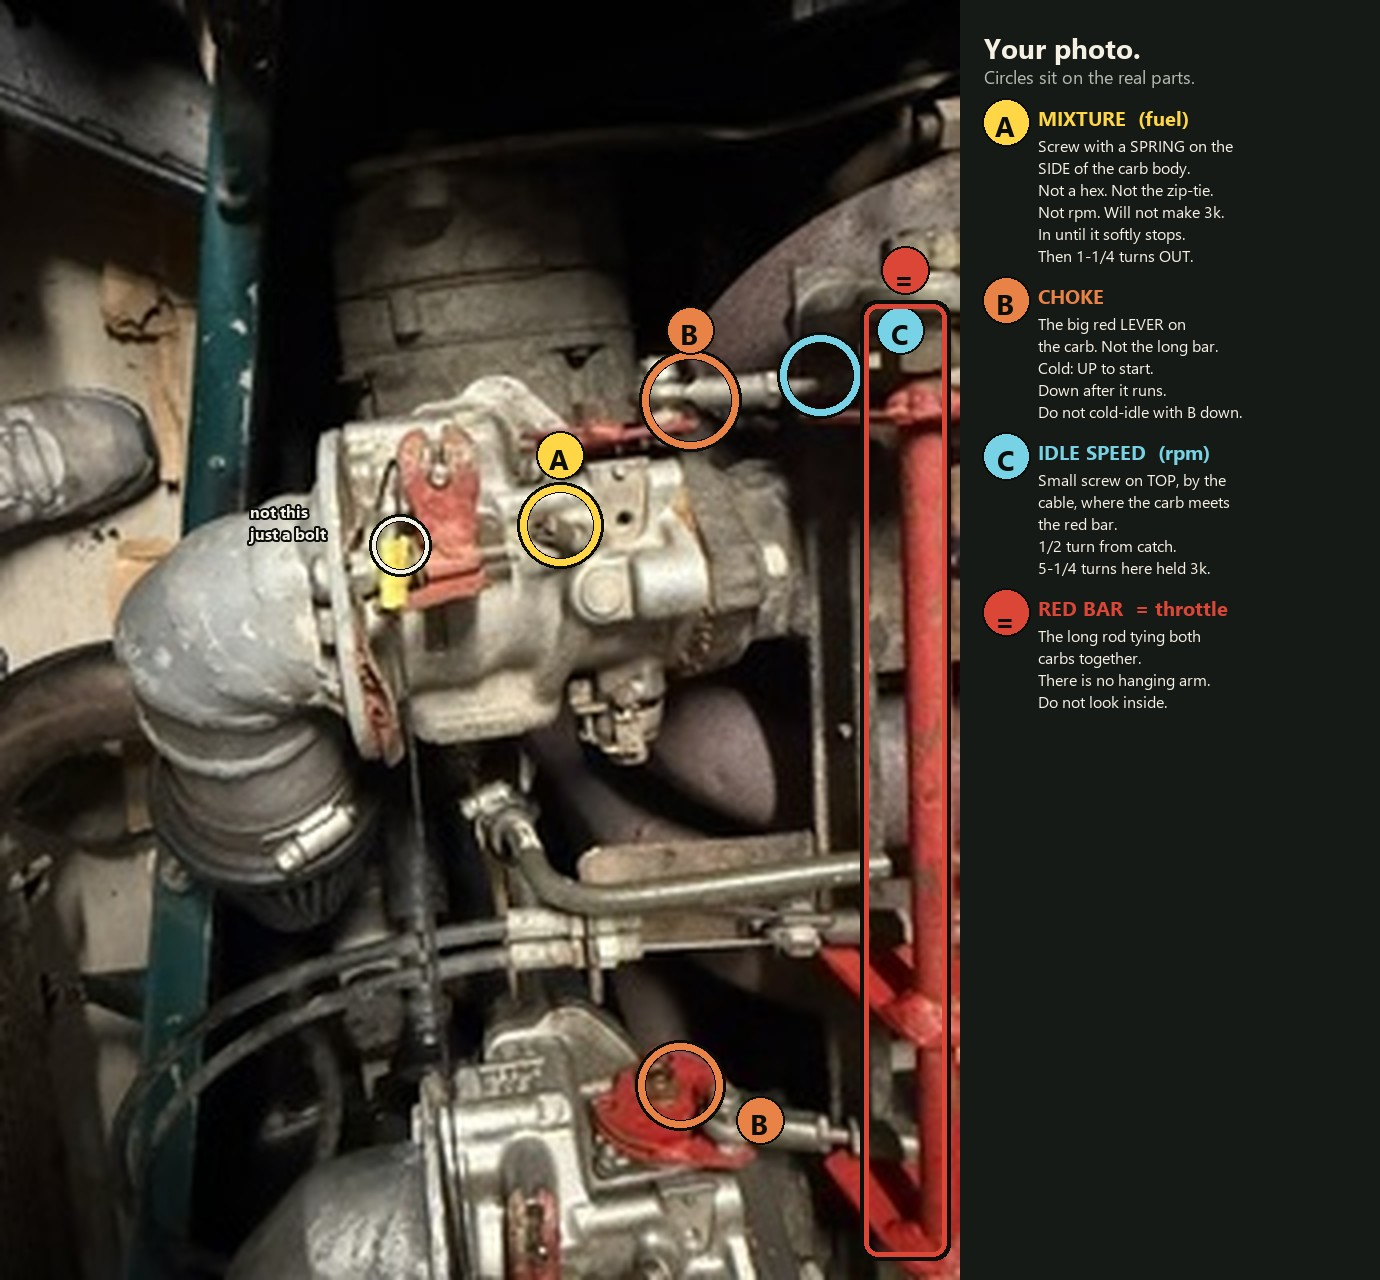
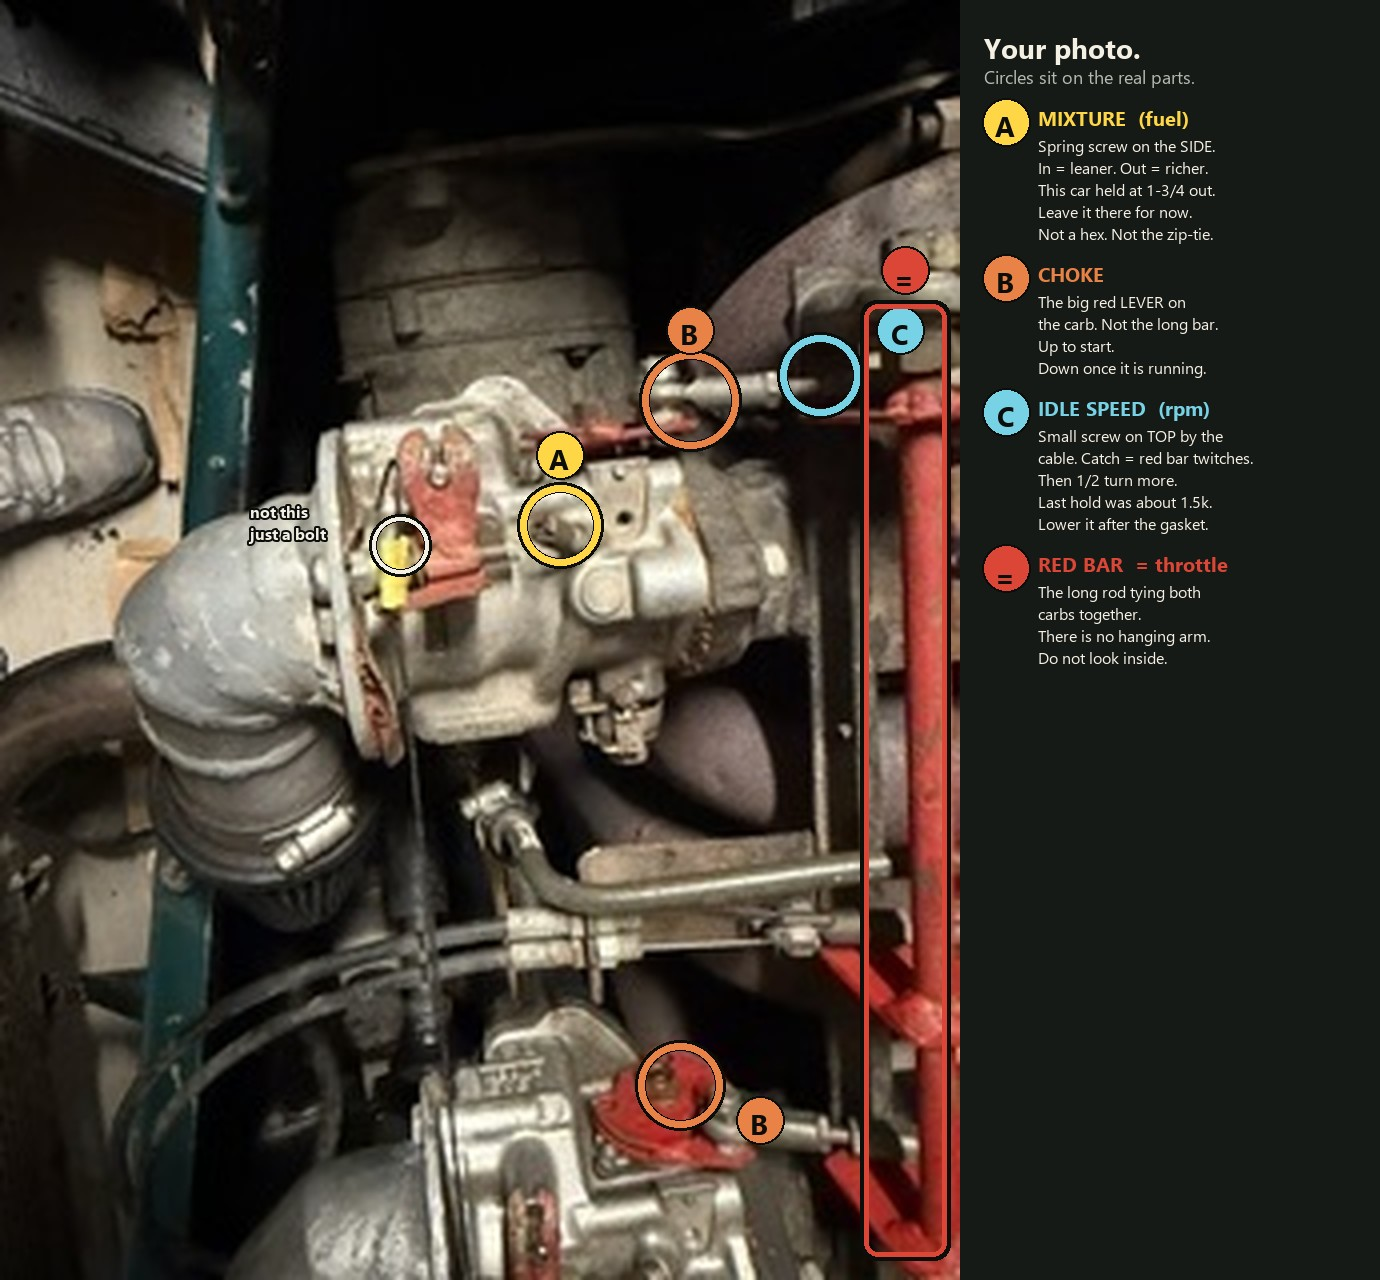
File tonight's idle: 1-3/4 mixture held at 1.5k. Gasket first, then lower speed.

Changed region(s): [[0.7167, 0.0938, 0.9036, 0.5625]]

diff --git a/public/js/data.js b/public/js/data.js
@@ -618,7 +618,8 @@ window.ZO = {
         { k: "OEM", v: "Mercury 27-52145, 27-806452, 27-851040, 27-34041. OMC 913277 / 912981 / 3852693. Volvo Penta 3852693. GLM 32210. Fel-Pro Marine 17900." },
         { k: "GM analog", v: "Marine Engine Depot lists authentic GM 14096154 for the 181 / 3.0L valve cover. https://marineenginedepot.com/gasket-181-30l-valve-cover-authentic-gm" },
         { k: "2010 set", v: "DET59565AS on eBasicPower 82085 is the old 2.5/3.0L set, $30.95. That invoice is not this dedicated gasket." },
-        { k: "Not", v: "Not a head gasket. Marine head-gasket analog 14096660 is not this part." }
+        { k: "Not", v: "Not a head gasket. Marine head-gasket analog 14096660 is not this part." },
+        { k: "Now", v: "Leaking. New gasket due 11 Nov 2026. Do not run the engine until it is on." }
       ],
       notes: "On the 9 Nov 2026 buy list with the fuel filter and thermostat kit. No receipt.",
       evidence: ["IMG_5863", "IMG_5929"]
@@ -691,8 +692,8 @@ window.ZO = {
         { k: "Seat", v: "S&S 11-2465 .160 in inlet seat, already circled on IMG_5949. Fits Super E and G with 11-2195. Page $18.95. Need two. https://www.sscycle.com/shop-by-products/replacement-parts/carburetor-replacement-parts/" },
         { k: "O-ring", v: "Seat/bowl plug o-ring 50-8009 is also circled on IMG_5949. Replace it when the seat comes out." },
         { k: "Float", v: "S&S 11-2187 on the same parts list. Shake both — if it sloshes, replace. Page $26.95 each. S&S sheet: top of float 1/8–3/16 in below the bowl gasket surface with the needle spring compressed." },
-        { k: "Enrichment", v: "Super E/G have no conventional choke. The big red lever is enrichment. Cold: up to start. Down on both after it runs. Do not cold-idle with both down to prove it. If a lever stays up while hot, it stays rich. NAPA 732-1153 choke kit is still on the 2010 ticket with no application — do not assume it is these carbs." },
-        { k: "Tune", v: "Enzo 10 Nov 2026 night: 1-1/4 is MIXTURE only (A, side spring screw). It does not set 3k/6k rpm. Idle SPEED is C, the screw by the cable wheel — 1/2 turn from catch, not 1-1/4. 5-1/4 turns of C started at 3k and held. Later ~2k cold, no choke, no blip, exhaust pop, then it died. Catch = engine off, back C out until the red bar is slack, in until the wheel/bar just moves, then 1/2 turn. Same both. A pop then stall in a few seconds is not warm-up. Cold idle can drop a little after it is actually hot. If it pops, A out 1/4 more both. Do not open C to hide it. 900–1100 is warm idle. Regulator 2 psi. If it spills, needles 11-2195 / seats 11-2465 both sides." },
+        { k: "Enrichment", v: "Big red lever on each carb — not the long red bar. Up to start. Down once it is running. If a lever stays up while hot, it stays rich." },
+        { k: "Tune", v: "Mixture A is 1-3/4 out on both. In is leaner, out is richer. Count from a soft seat, not from where it was. Print starts at 1-1/4. This car died at 1-1/4, lasted longer at 1-1/2, held at 1-3/4 with the choke down at about 1.5k. Leave A there. Idle speed C: catch is when the red bar just twitches, then 1/2 turn. 2k can run even when mixture is lean — that hides the stall. Do not open C to keep it alive. Warm idle is 900–1100 after the valve cover gasket is on. Regulator 2 psi. If it spills, needles." },
         { k: "Not easy", v: "One marine Rochester 2-barrel is the stock 181 carb. That needs the original intake back. Custom dual S&S manifold means that is not a bolt-off/bolt-on." },
         { k: "Not", v: "Not an electric pump. Not a locked mechanical pump SKU. Not a locked Rochester / Mercarb / Weber. Not Wix 33003 causing a spill out of the bowl. S&S racing seat 11-2466 is not the circled 11-2465." }
       ],
@@ -1077,7 +1078,7 @@ window.ZO = {
         { k: "IMG_5946", v: "Exploded body. Fuel inlet fitting is item 37 into the bowl. Fuel line with 90° bend is item 50." },
         { k: "Circled on IMG_5949", v: "Needle 11-2195. Seat 11-2465. Seat/bowl plug o-ring 50-8009. Float on the list is 11-2187. Fuel line 19-0475. Hose clamp 50-8002." },
         { k: "Mark", v: "“R SIDE” handwritten on IMG_5937 — right carb of the pair." },
-        { k: "Tune both", v: "1-1/4 is mixture (A) only, not idle speed. Idle speed (C) is 1/2 turn from catch. Enzo 10 Nov 2026 night: 5-1/4 turns of C held 3k. Later ~2k cold, no choke, exhaust pop, then died. Cold: enrichment up to start. 900–1100 is warm idle. Old overheat was no fan — not this job." }
+        { k: "Tune both", v: "This car held at 1-3/4 mixture, choke down, about 1.5k. Leave A there. Catch on C is when the red bar just twitches, then 1/2 turn. Do not open C to hide a stall. Gasket first, then lower idle toward 900–1100." }
       ],
       notes: "Re-read 10 Nov 2026. Paper labels Fuel Inlet as #7. Do not open the carb to measure pressure. Tee into the hose on that barb.",
       evidence: ["IMG_5936", "IMG_5937", "IMG_5938", "IMG_5946", "IMG_5947", "IMG_5948", "IMG_5949"]

diff --git a/public/js/catalog.js b/public/js/catalog.js
@@ -383,7 +383,8 @@ const CAT_PLACES = {
     { where: "Repower Marine", when: "8 Nov 2026", order: "8M0122491", item: "New GM steel rocker cover, same 3.0L four. UK.", price: "Page £125.00", url: "https://repowermarine.com/new-steel-rocker-valve-cover-for-3-0l-four-cylinder.html", link: "Repower Marine listing" },
   ],
   "valve-cover-gasket": [
-    { where: "NAPA", when: "9 Nov 2026", order: "SME180347", item: "Found. Sierra 18-0347 valve cover gasket, GM 153 and 181 CID (2.5L and 3.0L). NAPA Small Engine. Not bought.", price: "No receipt", url: "https://www.napaonline.com/en/p/SME180347", link: "NAPA listing" },
+    { where: "NAPA", when: "9 Nov 2026", order: "SME180347", item: "Found. Sierra 18-0347 valve cover gasket, GM 153 and 181 CID (2.5L and 3.0L). NAPA Small Engine.", price: "No receipt", url: "https://www.napaonline.com/en/p/SME180347", link: "NAPA listing" },
+    { where: "Read on the car", when: "10 Nov 2026", order: "leaking", item: "Old valve cover gasket leaking oil and a little smoke. Stopped the run. New gasket due 11 Nov 2026. Do not run it until that is on.", price: "No price" },
     { where: "Marine Engine Depot", when: "8 Nov 2026", order: "801096", item: "Authentic GM 14096154 for the 181 / 3.0L valve cover.", price: "Page $30.39", url: "https://marineenginedepot.com/gasket-181-30l-valve-cover-authentic-gm", link: "Marine Engine Depot listing" },
     { where: "eBasicPower, already bought", when: "9 Mar 2010", order: "82085", item: "DET59565AS 2.5/3.0L set $30.95. Old set. Not this dedicated gasket.", price: "$30.95 on that order" },
   ],
@@ -524,7 +525,7 @@ const CAT_PLACES = {
     { where: "Read on the car", when: "9 Nov 2026", order: "2× S&S", item: "Two S&S carbs, custom on the 181. Floods after a few minutes, idle dies. Look for E or G cast on each body.", price: "No price" },
     { where: "Read on the car", when: "10 Nov 2026", order: "mechanical pump", item: "Previous owner took the electric pump off. Engine-driven mechanical pump, not a hand lever. No SKU on a ticket.", price: "No price" },
     { where: "Read on the car", when: "10 Nov 2026", order: "one line, then tee", item: "One fuel line splits into two right at the carbs. Regulator goes on that single line after the filter, before the tee.", price: "No price" },
-    { where: "Read on the car", when: "10 Nov 2026", order: "tune both", item: "Car starts. Regulator at 2 psi. 1-1/4 is mixture (side screw) only. Idle speed is 1/2 turn from catch on the cable-wheel screw. 5-1/4 turns of idle speed held 3k. Later ~2k cold, no choke, exhaust pop, then died.", price: "No price" },
+    { where: "Read on the car", when: "10 Nov 2026", order: "tune both", item: "Idle held at about 1.5k on 1-3/4 mixture with the choke down. In is leaner, out is richer. 2k with the speed screw cracked hides a lean idle. Valve cover gasket leaking — due 11 Nov 2026. Then lower idle toward 900–1100.", price: "No price" },
     { where: "Folder print IMG_5937", when: "10 Nov 2026", order: "#7 Fuel Inlet", item: "Brass barb on the float bowl. Hose clamps on. Do not open the carb to measure pressure.", price: "No price" },
     { where: "Holley", when: "9 Nov 2026", order: "12-804", item: "Easy first fix if running pressure is high. 1–4 psi, two outlets, one per carb. Preset 2.8, turn down toward 1.5–2. Inlet limit 7 psi. Mechanical carb pumps are usually in that band. Not bought.", price: "Page $51.95", url: "https://www.holley.com/products/fuel_systems/fuel_pumps_regulators_and_filters/regulators/carbureted_regulators/parts/12-804", link: "Holley listing" },
     { where: "S&S / Autoplicity", when: "9 Nov 2026", order: "11-2195", item: "Float needle, Super E and G. Circled on IMG_5949. Need two.", price: "Page $19.95", url: "https://autoplicity.com/8595253-ss-cycle-float-needle", link: "Autoplicity listing" },

diff --git a/public/js/projects.js b/public/js/projects.js
@@ -7,7 +7,7 @@ const ZO_PROJECTS = [
     status: "open",
     system: "engine",
     summary:
-      "Two S&S Super E/G carbs, custom on the 181. Mechanical (engine-driven) pump — electric is off. After a few minutes they spill fuel, idle dies, then the engine shuts off.",
+      "Idle held at about 1.5k on 1-3/4 mixture with the choke down. Stopped because the valve cover gasket is leaking oil — new one due 11 Nov 2026. Then lower idle speed toward 900–1100.",
     why: [
       {
         title: "Harley carbs on a mechanical pump",
@@ -60,12 +60,17 @@ const ZO_PROJECTS = [
       {
         id: "enrich",
         title: "Enrichment lever down when hot",
-        body: "The big red lever is the choke (enrichment). Cold: UP to start. Down on both after it runs. Do not try a cold idle with both levers down to prove it. If a lever stays up while hot, it stays rich. NAPA 732-1153 on the 2010 ticket is still unapplied."
+        body: "Big red lever on each carb — not the long red bar. Up to start. Down once it is running. If a lever stays up while hot, it stays rich."
       },
       {
         id: "tune",
         title: "Tune both carbs the same",
-        body: "Two different screws. 1-1/4 is A only — the spring screw on the SIDE. That is mixture (fuel), not rpm. It will not make 3k or 6k. C is idle speed — the small screw next to the cable wheel on TOP. Print is 1/2 turn from catch, not 1-1/4. Engine off: back C out until the red bar is slack, then in until the wheel/bar just moves (catch), then only 1/2 turn more. Same both. 5-1/4 turns of C is why it held 3k. Cold start: B (red lever) UP, then down after it runs. A pop then a stall in a few seconds is not the motor warming up. If it pops, A out 1/4 more on both. Do not open C to hide it. Warm idle is 900–1100. Regulator 2 psi. If it spills, needles."
+        body: "A is mixture, the spring screw on the SIDE. In is leaner. Out is richer. Seat it softly, then count out from that stop. Print starts at 1-1/4. This car died at 1-1/4, lasted longer at 1-1/2, and held at 1-3/4 with the choke down. Leave A at 1-3/4. C is idle speed, the small screw on TOP by the cable. Catch is when the red bar just twitches. Print is 1/2 turn after that. 2k can run even when mixture is lean — that hides the stall. Do not open C to keep it alive. Last hold was about 1.5k. Warm idle is 900–1100. Regulator 2 psi. If it spills, needles."
+      },
+      {
+        id: "gasket-first",
+        title: "Valve cover gasket, then lower idle",
+        body: "Oil is leaking at the valve cover and smoking a little. New gasket is due 11 Nov 2026. Do not run it until that is on. Then start the same way: choke up, then down, mixture stays 1-3/4. If it holds, turn C down toward 900–1100, same on both, a little at a time."
       },
       {
         id: "log",
@@ -79,7 +84,7 @@ const ZO_PROJECTS = [
       { src: "img/carb-now/both-marked.jpg", cap: "Both carbs. The long red rod is the throttle for both — not a hanging arm." },
       { src: "img/carb-now/left-marked.jpg", cap: "Other carb. Same A, B, C. The yellow paint is just a bolt." }
     ],
-    parts: ["carb", "fuel-filter", "fuel-hose", "fuel-hardware", "ss-carb-notes"],
+    parts: ["carb", "fuel-filter", "fuel-hose", "fuel-hardware", "ss-carb-notes", "valve-cover-gasket"],
     evidence: ["IMG_5937", "IMG_5949", "IMG_5877"]
   },
   {

diff --git a/public/index.html b/public/index.html
@@ -8,7 +8,7 @@
   <link rel="preconnect" href="https://fonts.googleapis.com" />
   <link rel="preconnect" href="https://fonts.gstatic.com" crossorigin />
   <link href="https://fonts.googleapis.com/css2?family=Barlow:wght@400;500;600&family=Bebas+Neue&family=IBM+Plex+Mono:wght@400;500&display=swap" rel="stylesheet" />
-  <link rel="stylesheet" href="css/app.css?v=l8i" />
+  <link rel="stylesheet" href="css/app.css?v=l8j" />
 </head>
 <body>
   <div class="app">
@@ -120,9 +120,9 @@
     <div class="cap"></div>
   </div>
 
-  <script src="js/data.js?v=l8i"></script>
-  <script src="js/projects.js?v=proj13"></script>
-  <script src="js/catalog.js?v=l8i"></script>
+  <script src="js/data.js?v=l8j"></script>
+  <script src="js/projects.js?v=proj14"></script>
+  <script src="js/catalog.js?v=l8j"></script>
   <script src="js/diagrams.js?v=sheet25"></script>
   <script type="importmap">
   {
@@ -132,6 +132,6 @@
     }
   }
   </script>
-  <script type="module" src="js/app.js?v=l8i"></script>
+  <script type="module" src="js/app.js?v=l8j"></script>
 </body>
 </html>

diff --git a/tools/annotate-carbs.py b/tools/annotate-carbs.py
@@ -76,26 +76,24 @@ def compose(photo, lines):
 
 NOTES = [
     ("A", YELLOW, "MIXTURE  (fuel)", [
-        "Screw with a SPRING on the",
-        "SIDE of the carb body.",
+        "Spring screw on the SIDE.",
+        "In = leaner. Out = richer.",
+        "This car held at 1-3/4 out.",
+        "Leave it there for now.",
         "Not a hex. Not the zip-tie.",
-        "Not rpm. Will not make 3k.",
-        "In until it softly stops.",
-        "Then 1-1/4 turns OUT.",
     ]),
     ("B", ORANGE, "CHOKE", [
         "The big red LEVER on",
         "the carb. Not the long bar.",
-        "Cold: UP to start.",
-        "Down after it runs.",
-        "Do not cold-idle with B down.",
+        "Up to start.",
+        "Down once it is running.",
     ]),
     ("C", CYAN, "IDLE SPEED  (rpm)", [
-        "Small screw on TOP, by the",
-        "cable, where the carb meets",
-        "the red bar.",
-        "1/2 turn from catch.",
-        "5-1/4 turns here held 3k.",
+        "Small screw on TOP by the",
+        "cable. Catch = red bar twitches.",
+        "Then 1/2 turn more.",
+        "Last hold was about 1.5k.",
+        "Lower it after the gasket.",
     ]),
     ("=", RED, "RED BAR  = throttle", [
         "The long rod tying both",

diff --git a/agent.py b/agent.py
@@ -218,9 +218,9 @@ TOPICS: list[dict] = [
             "Easy path: keep them. Running pressure, then Holley 12-804 if high (inlet limit 7 psi), "
             "then circled 11-2195 needle, 11-2465 seat, and 50-8009 o-ring — two of each. "
             "Shake floats 11-2187. Super E/G use an enrichment lever, not a choke. "
-            "Two carbs — same turns on both. 1-1/4 is mixture (side spring screw) only, not idle speed. "
-            "Idle speed is 1/2 turn from catch on the cable-wheel screw. Cold: enrichment up to start, then down. "
-            "900–1100 rpm is warm idle. A pop then stall in a few seconds is not warm-up."
+            "Two carbs — same turns on both. Mixture A is 1-3/4 out. In is leaner, out is richer. "
+            "Idle speed C: catch is when the red bar just twitches, then 1/2 turn. Do not open C to hide a stall. "
+            "Choke up to start, down once it is running. Idle held at about 1.5k. Gasket first, then 900–1100."
         ),
         "pills": ["Fuel filter", "Engine", "Valve cover"],
     },
